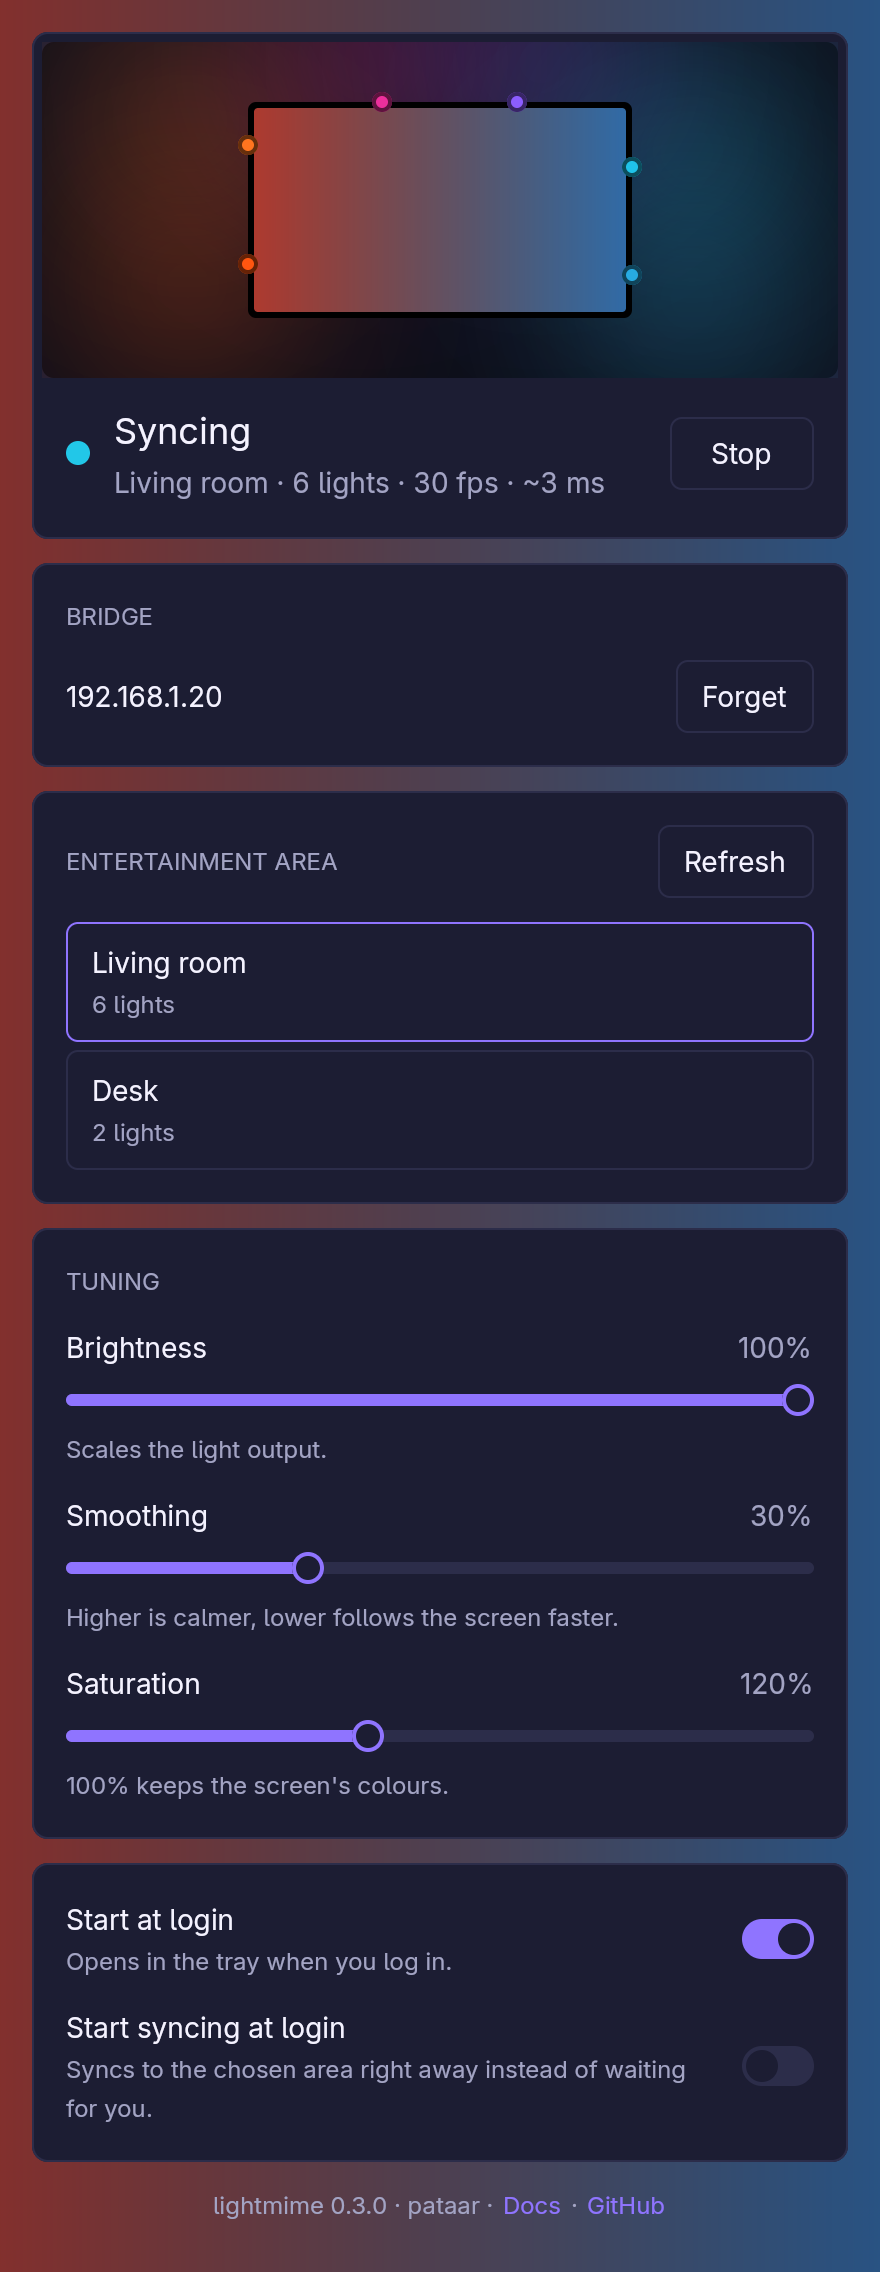
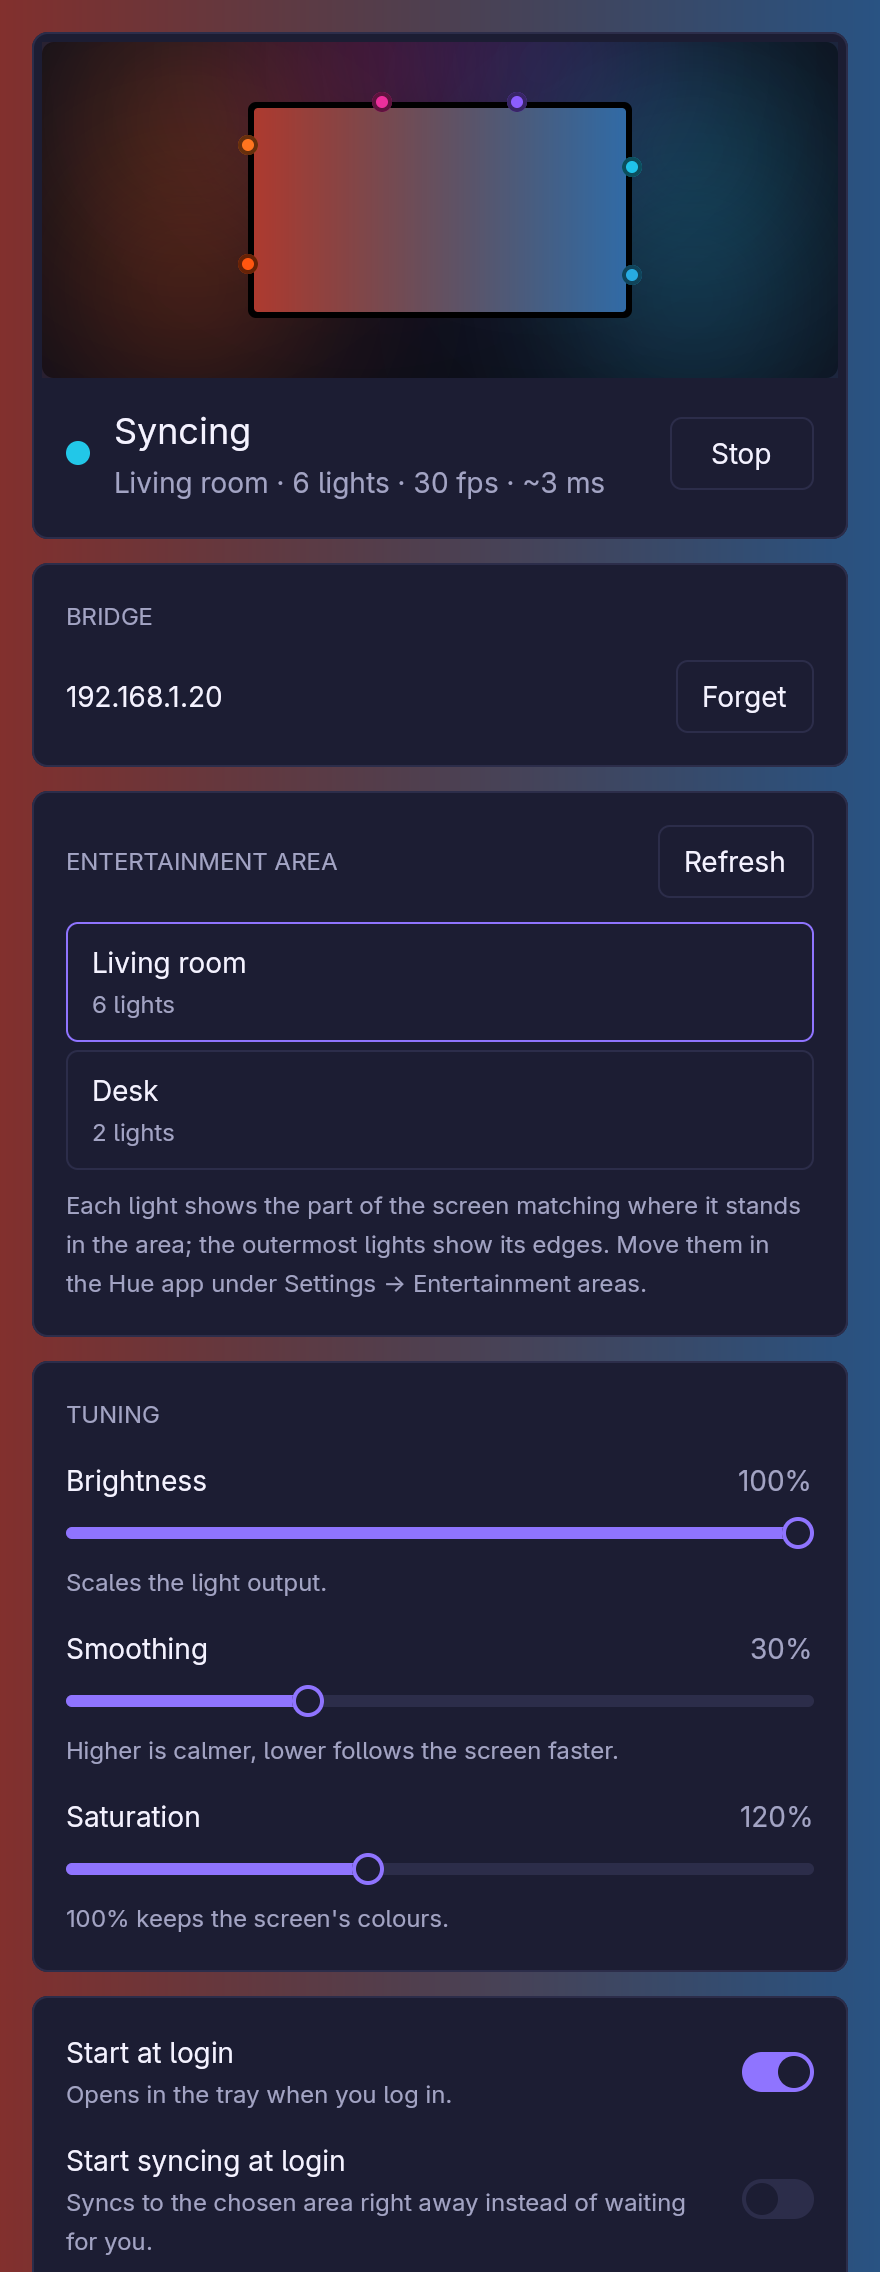
feat(gui): point to the Hue app for moving lights in the area

Changed region(s): [[0.0307, 0.5312, 0.9818, 1.0], [0.8591, 0.7188, 0.9205, 0.75]]

diff --git a/crates/lightmime-gui/src/view.rs b/crates/lightmime-gui/src/view.rs
@@ -570,6 +570,13 @@ impl MainView {
                         .child(div().text_sm().font_weight(FontWeight::MEDIUM).child(area.metadata.name.clone()))
                         .child(div().text_xs().text_color(theme.muted).child(detail))
                 }))
+                .child(
+                    div()
+                        .pt_1()
+                        .text_xs()
+                        .text_color(theme.muted)
+                        .child("Each light shows the part of the screen matching where it stands in the area; the outermost lights show its edges. Move them in the Hue app under Settings → Entertainment areas."),
+                )
                 .into_any_element(),
         };
         card(theme).child(header).child(body)

diff --git a/docs/src/gui.md b/docs/src/gui.md
@@ -14,7 +14,7 @@ The window follows your desktop's light or dark style. From top to bottom:
 - **Bridge**: [pairing](bridge.md#pairing), or the paired bridge and **Forget**.
 - **Entertainment area**: the bridge's [areas](bridge.md#entertainment-areas); click one to sync to it. Switching
   areas while syncing restarts the sync on the new one. **Refresh** reloads the list after you change areas in the Hue
-  app.
+  app. A note below the list says where to move the lights, which decides the part of the screen each one shows.
 - **Tuning**: brightness, smoothing and saturation; see [Tuning](tuning.md). Changes apply to the next frame and are
   saved.
 - **Start at login**: starts lightmime in the tray (`lightmime gui --hidden`) when you log in. Syncing waits for you,
